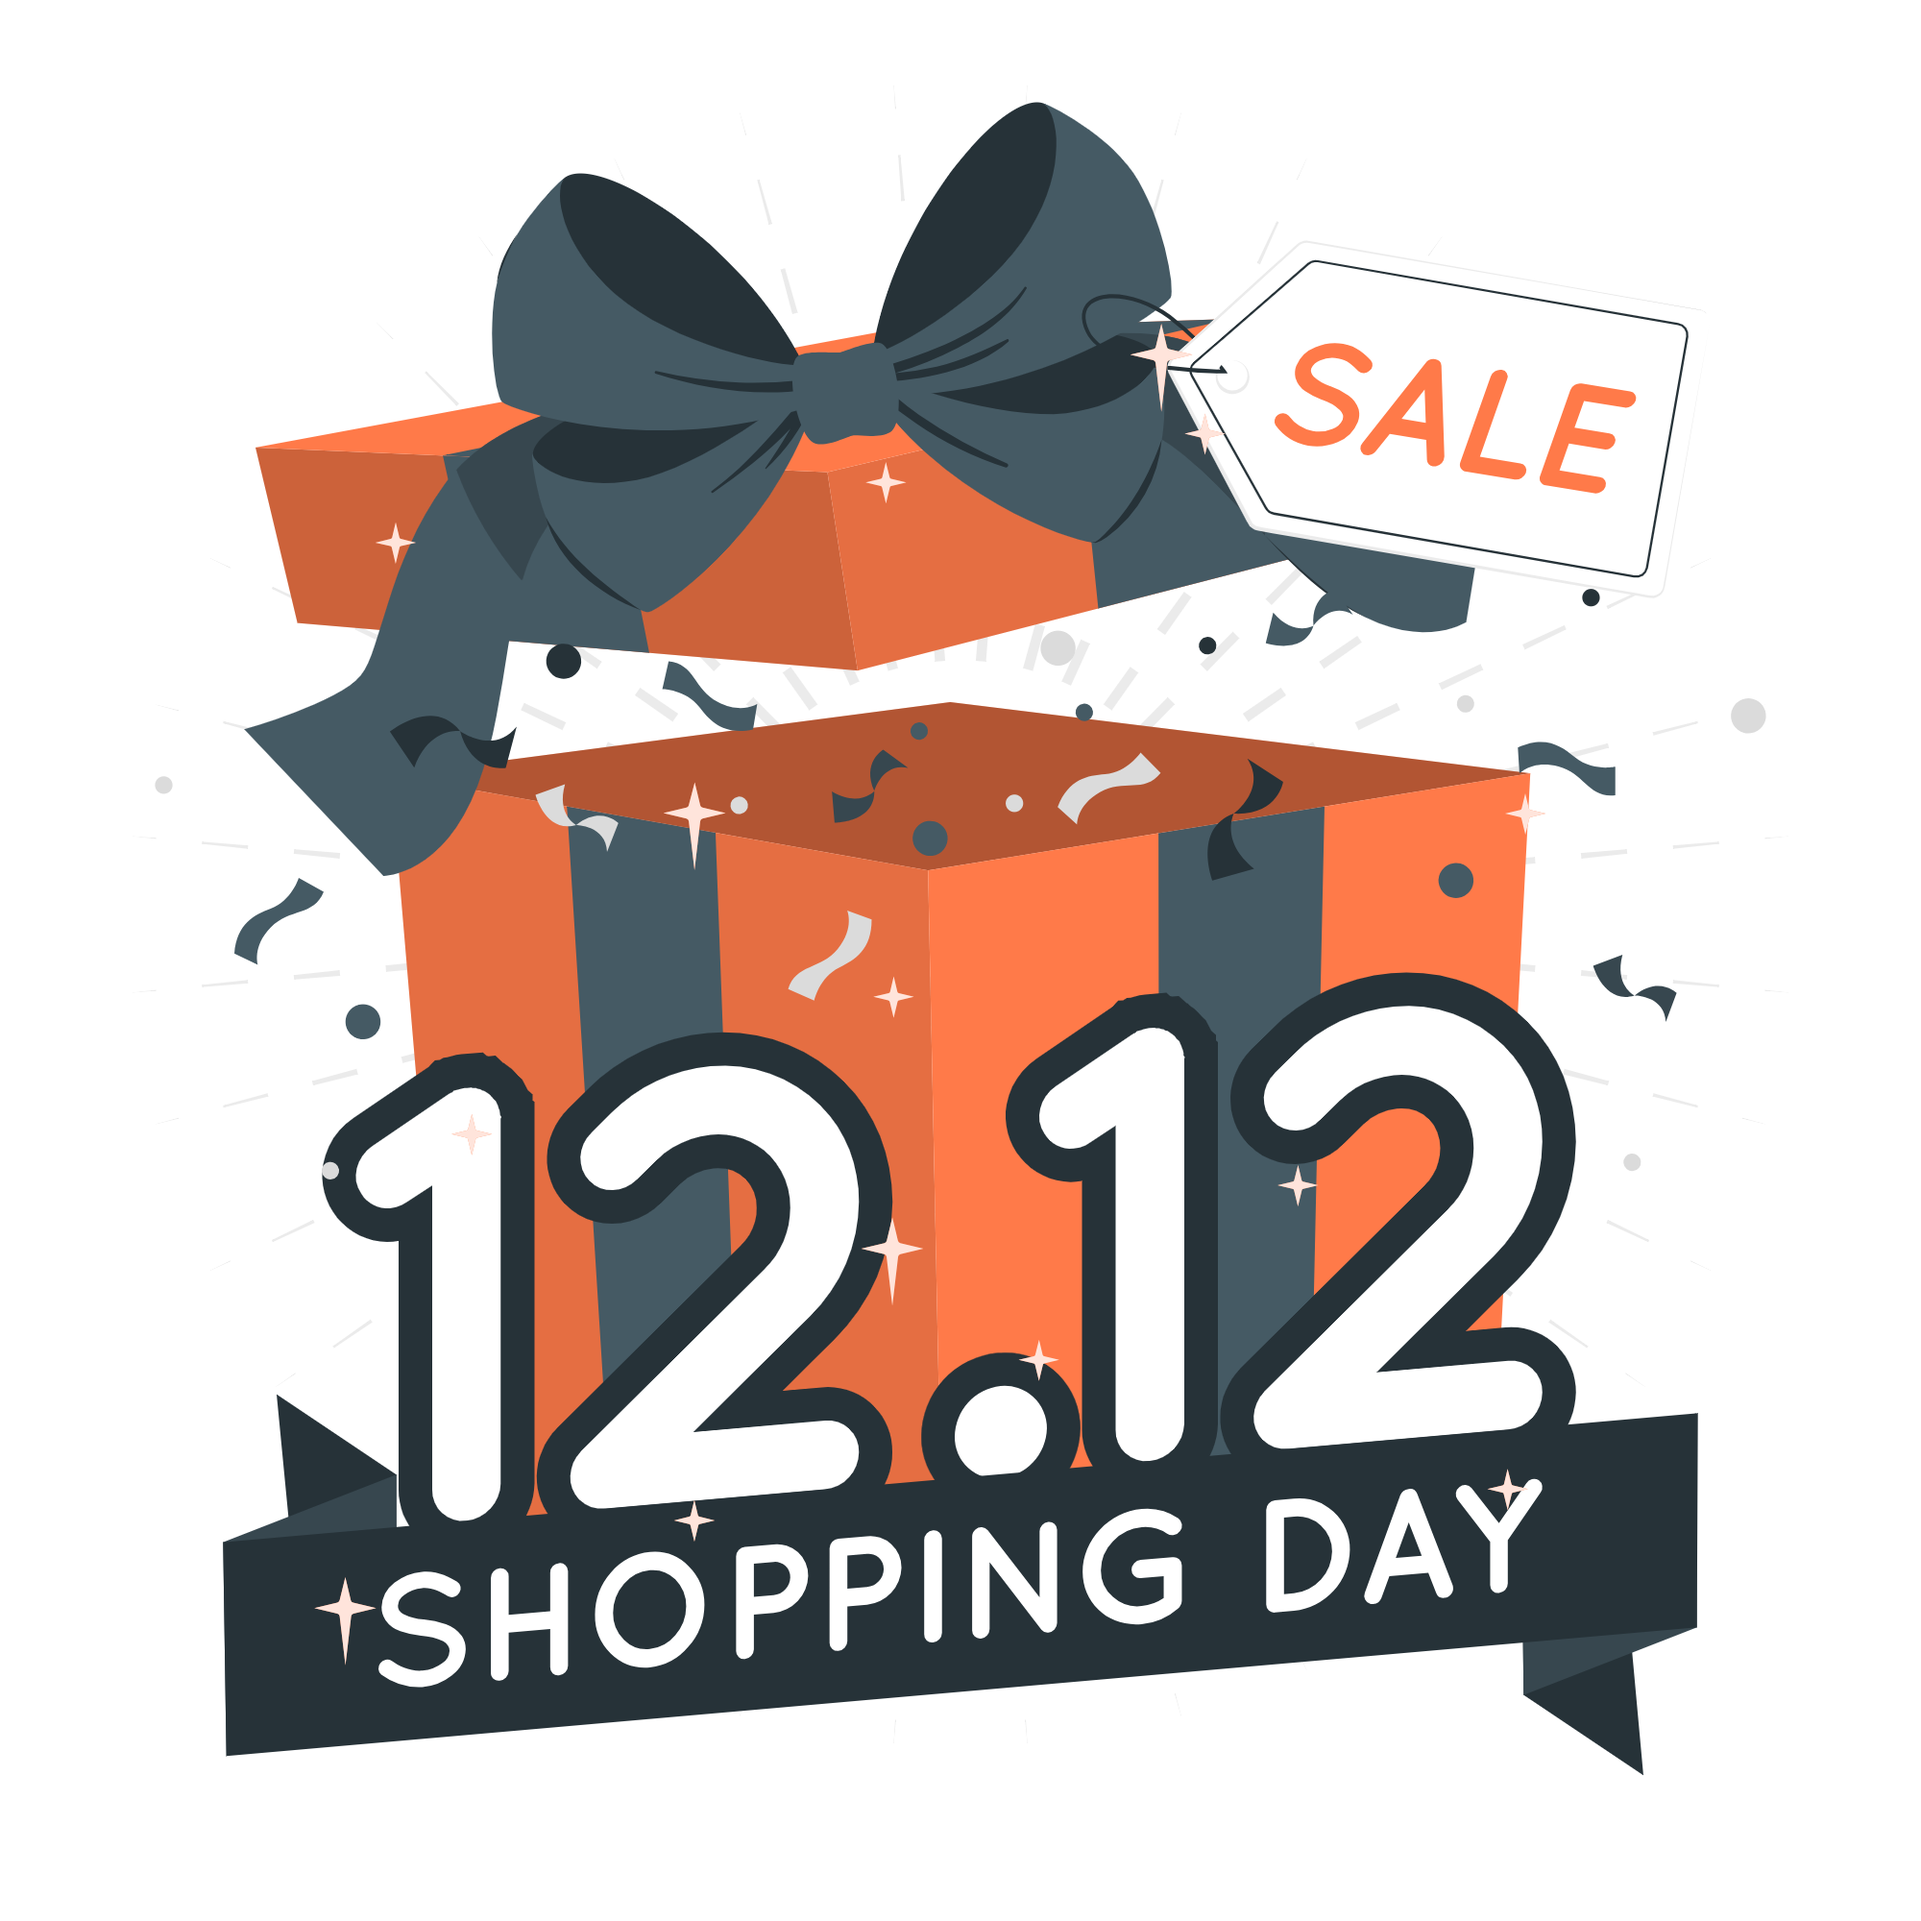
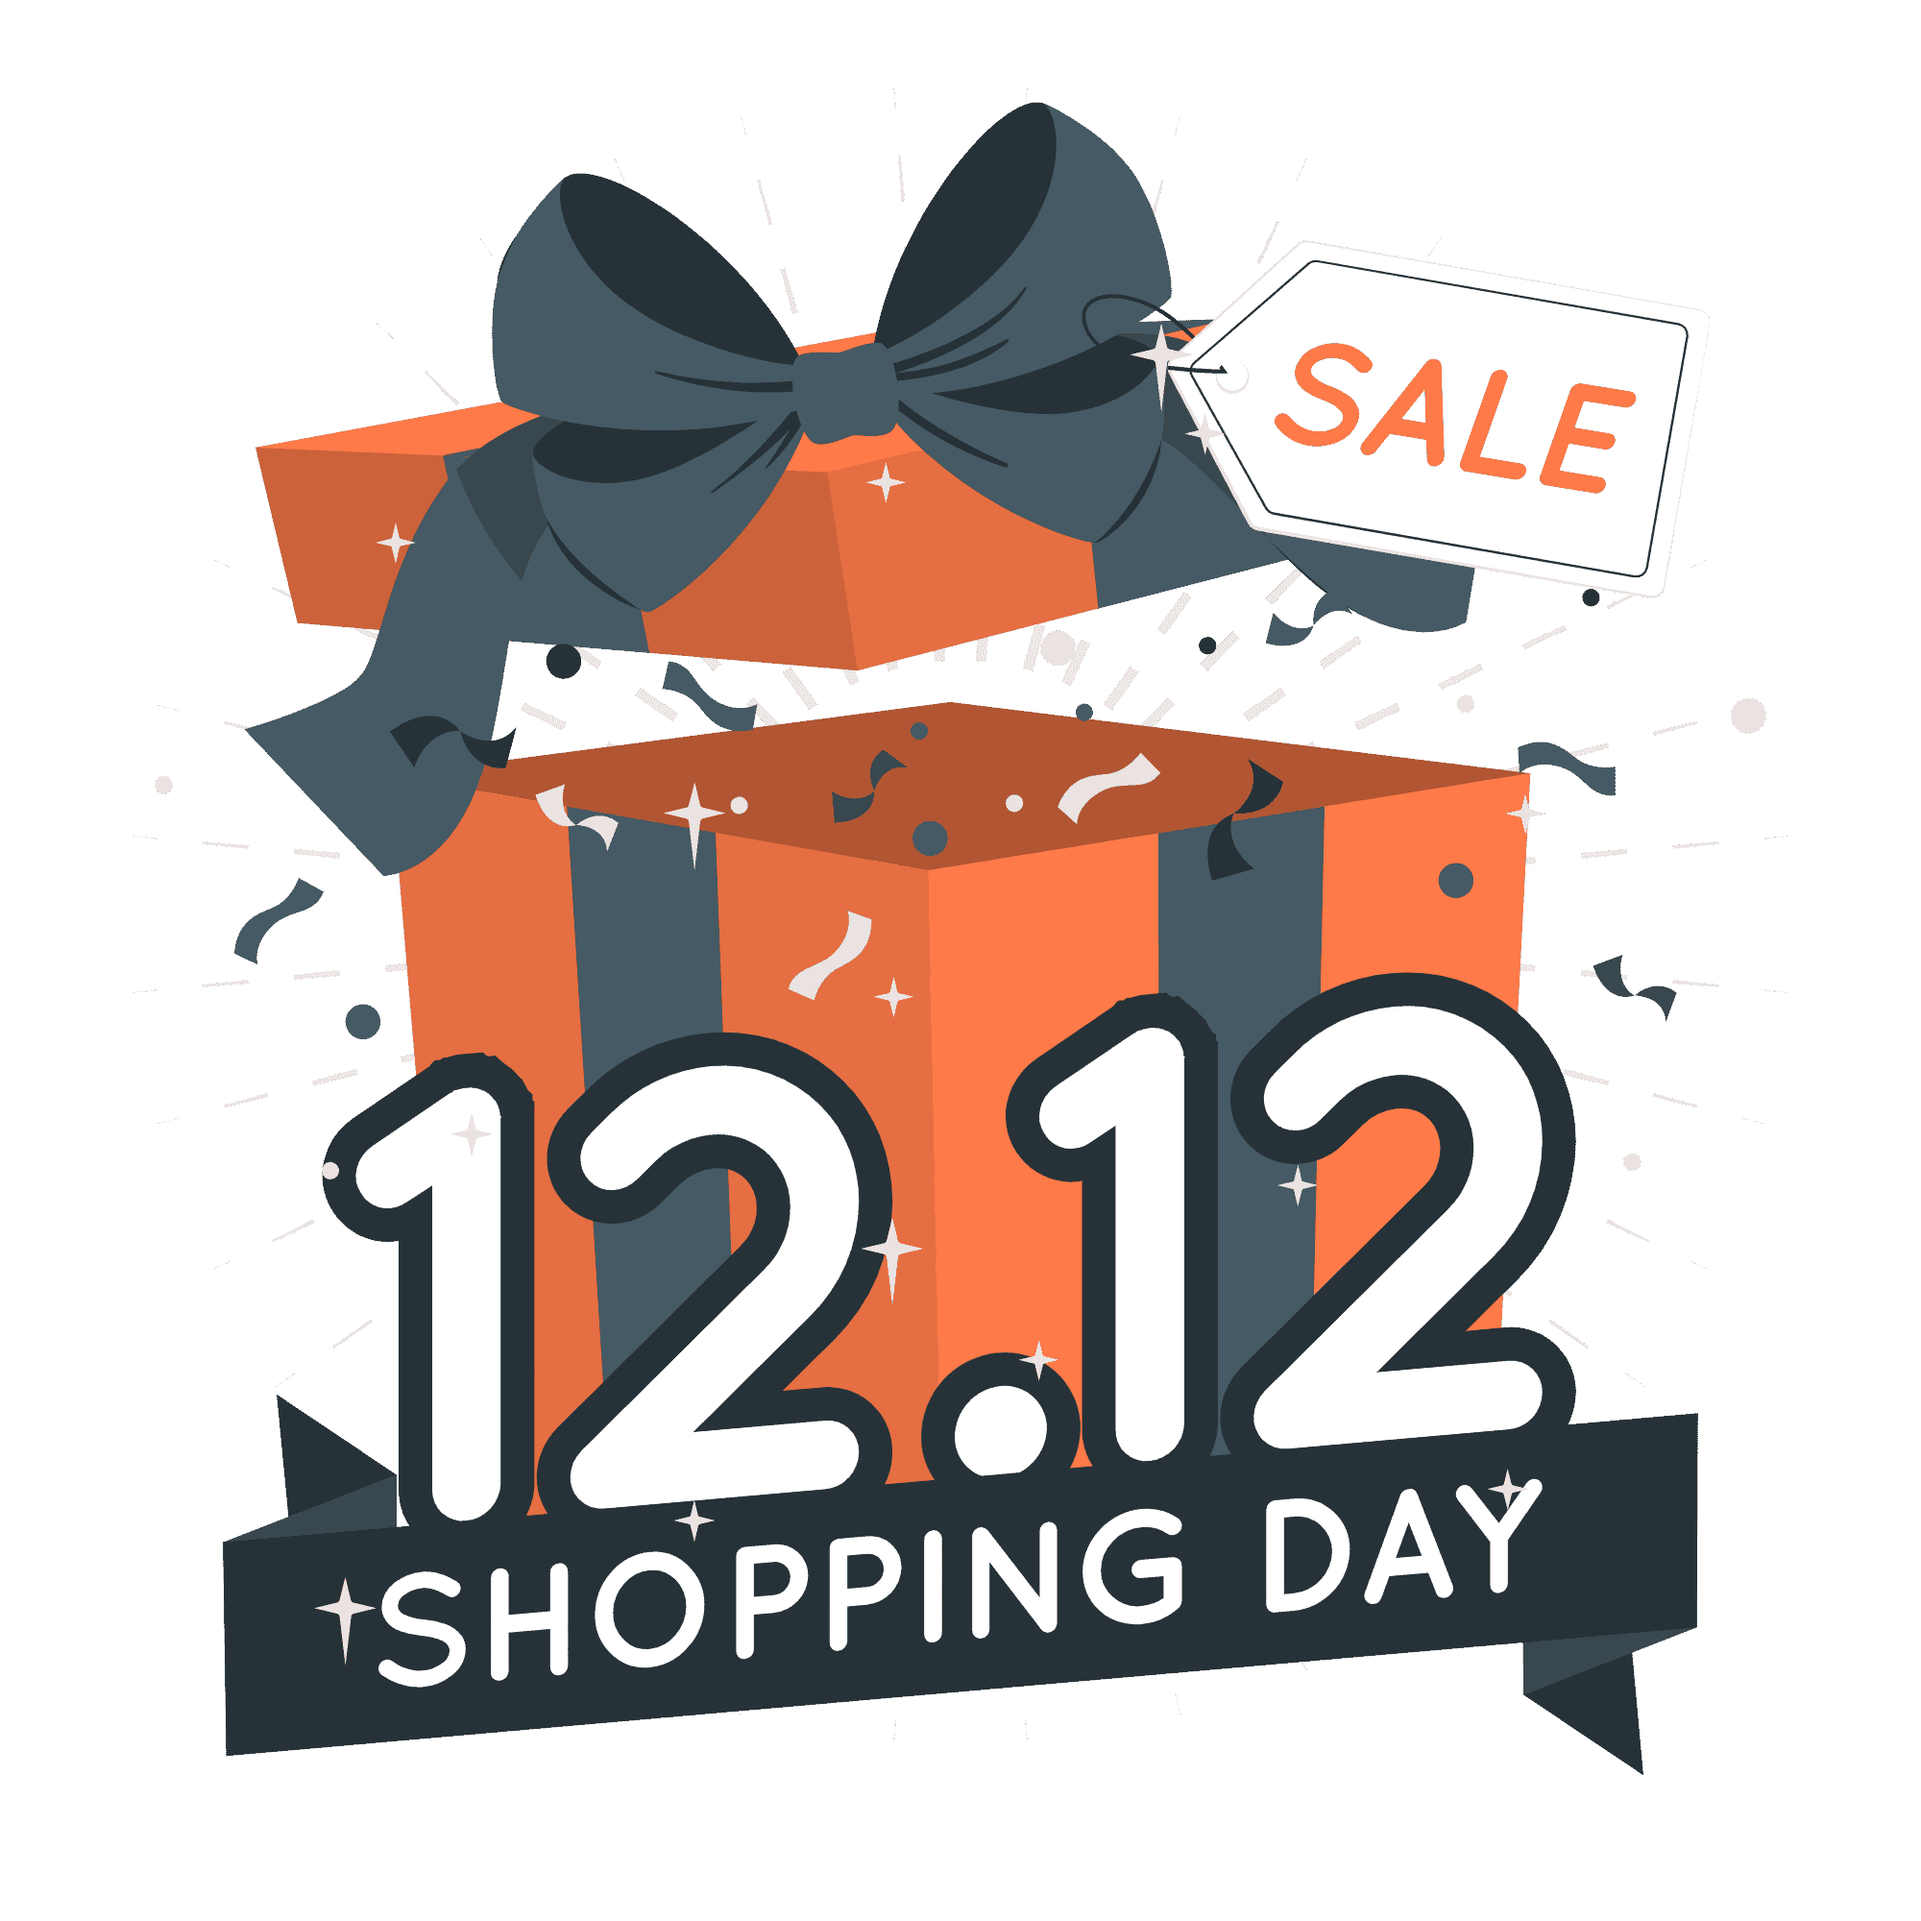
committing changes

diff --git a/src/pages/discountCoupon/index.jsx b/src/pages/discountCoupon/index.jsx
@@ -2,7 +2,7 @@ import React, { useEffect, useState } from 'react'
 import PageUI from '../pageUIComponents/PageUI'
 import { useLocation, useWindowSize } from 'react-use';
 import { useFetchedContext } from '../../context/FetchedContext';
-import { RiDeleteBin5Line, RiEdit2Line } from 'react-icons/ri';
+import { RiCoupon3Line, RiDeleteBin5Line, RiDiscountPercentLine, RiEdit2Line } from 'react-icons/ri';
 import TooltipUI from '../../components/TooltipUI';
 import { MdOutlineRefresh } from 'react-icons/md';
 import { formatNumber, ymdDateFormat, ymdDateSlashFormat } from '../../utils/helper';
@@ -19,12 +19,12 @@ import store_sales_emptyImg from '../../assets/images/illustrations/store_sales.
 const discount_emptyTitle = "Add Discount";
 const discount_emptyText = "Lorem ipsum dolor sit amet consectetur adipisicing elit. Quaerat aliquam vero perferendis sapiente iste assumenda nam, vel dicta ducimus at perferendis sapiente iste.";
 const discount_emptyBtns = [
-    { title: <><AiOutlinePlus />Add Discount</>, link: "/dashboard/discounts/add" },
+    { title: <><RiDiscountPercentLine />Add Discount</>, link: "/dashboard/discounts/add" },
 ];
 const coupon_emptyTitle = "Add Coupon";
 const coupon_emptyText = "Lorem ipsum dolor sit amet consectetur adipisicing elit. Quaerat aliquam vero perferendis sapiente iste assumenda nam, vel dicta ducimus at perferendis sapiente iste.";
 const coupon_emptyBtns = [
-    { title: <><AiOutlinePlus />Add Coupon</>, link: "/dashboard/coupons/add" },
+    { title: <><RiCoupon3Line />Add Coupon</>, link: "/dashboard/coupons/add" },
 ];
 const store_sales_emptyTitle = "Run Store Sales";
 const store_sales_emptyText = "Lorem ipsum dolor sit amet consectetur adipisicing elit. Quaerat aliquam vero perferendis sapiente iste assumenda nam, vel dicta ducimus at perferendis sapiente iste.";

diff --git a/src/ui/uiComponents/DashboardMenu.jsx b/src/ui/uiComponents/DashboardMenu.jsx
@@ -19,8 +19,7 @@ import { TbDeviceAnalytics, TbTransactionDollar, TbTruckDelivery } from 'react-i
 
 function DashboardMenu() {
     const { isMenuCollapsed, showSidemenu, handleShowSidemenu, animateOut } = useDataContext();
-    const { width } = useWindowSize()
-
+    const { width } = useWindowSize();
 
     return (
         <>
